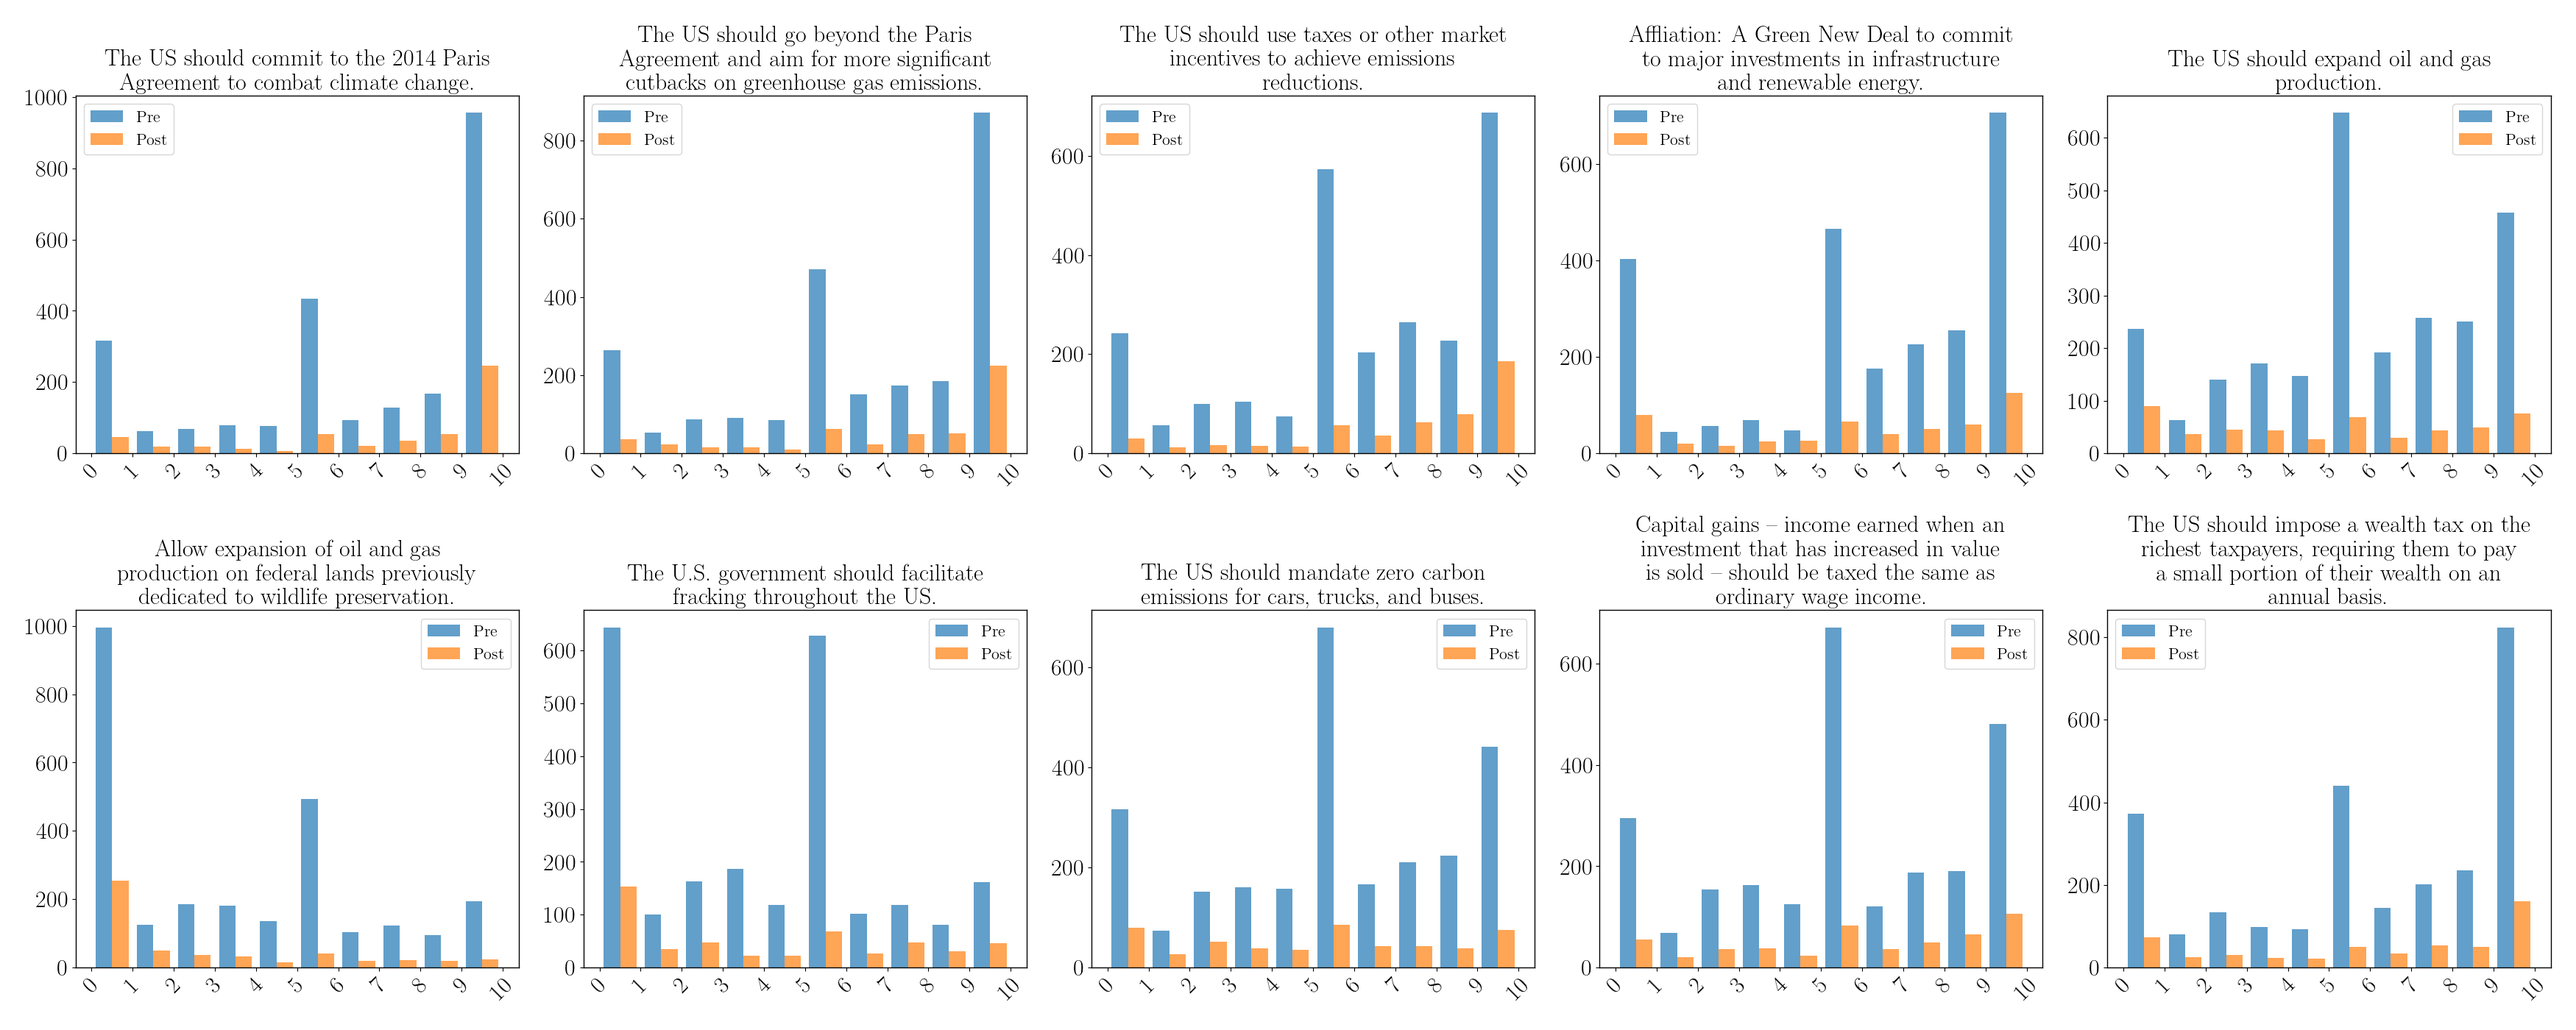
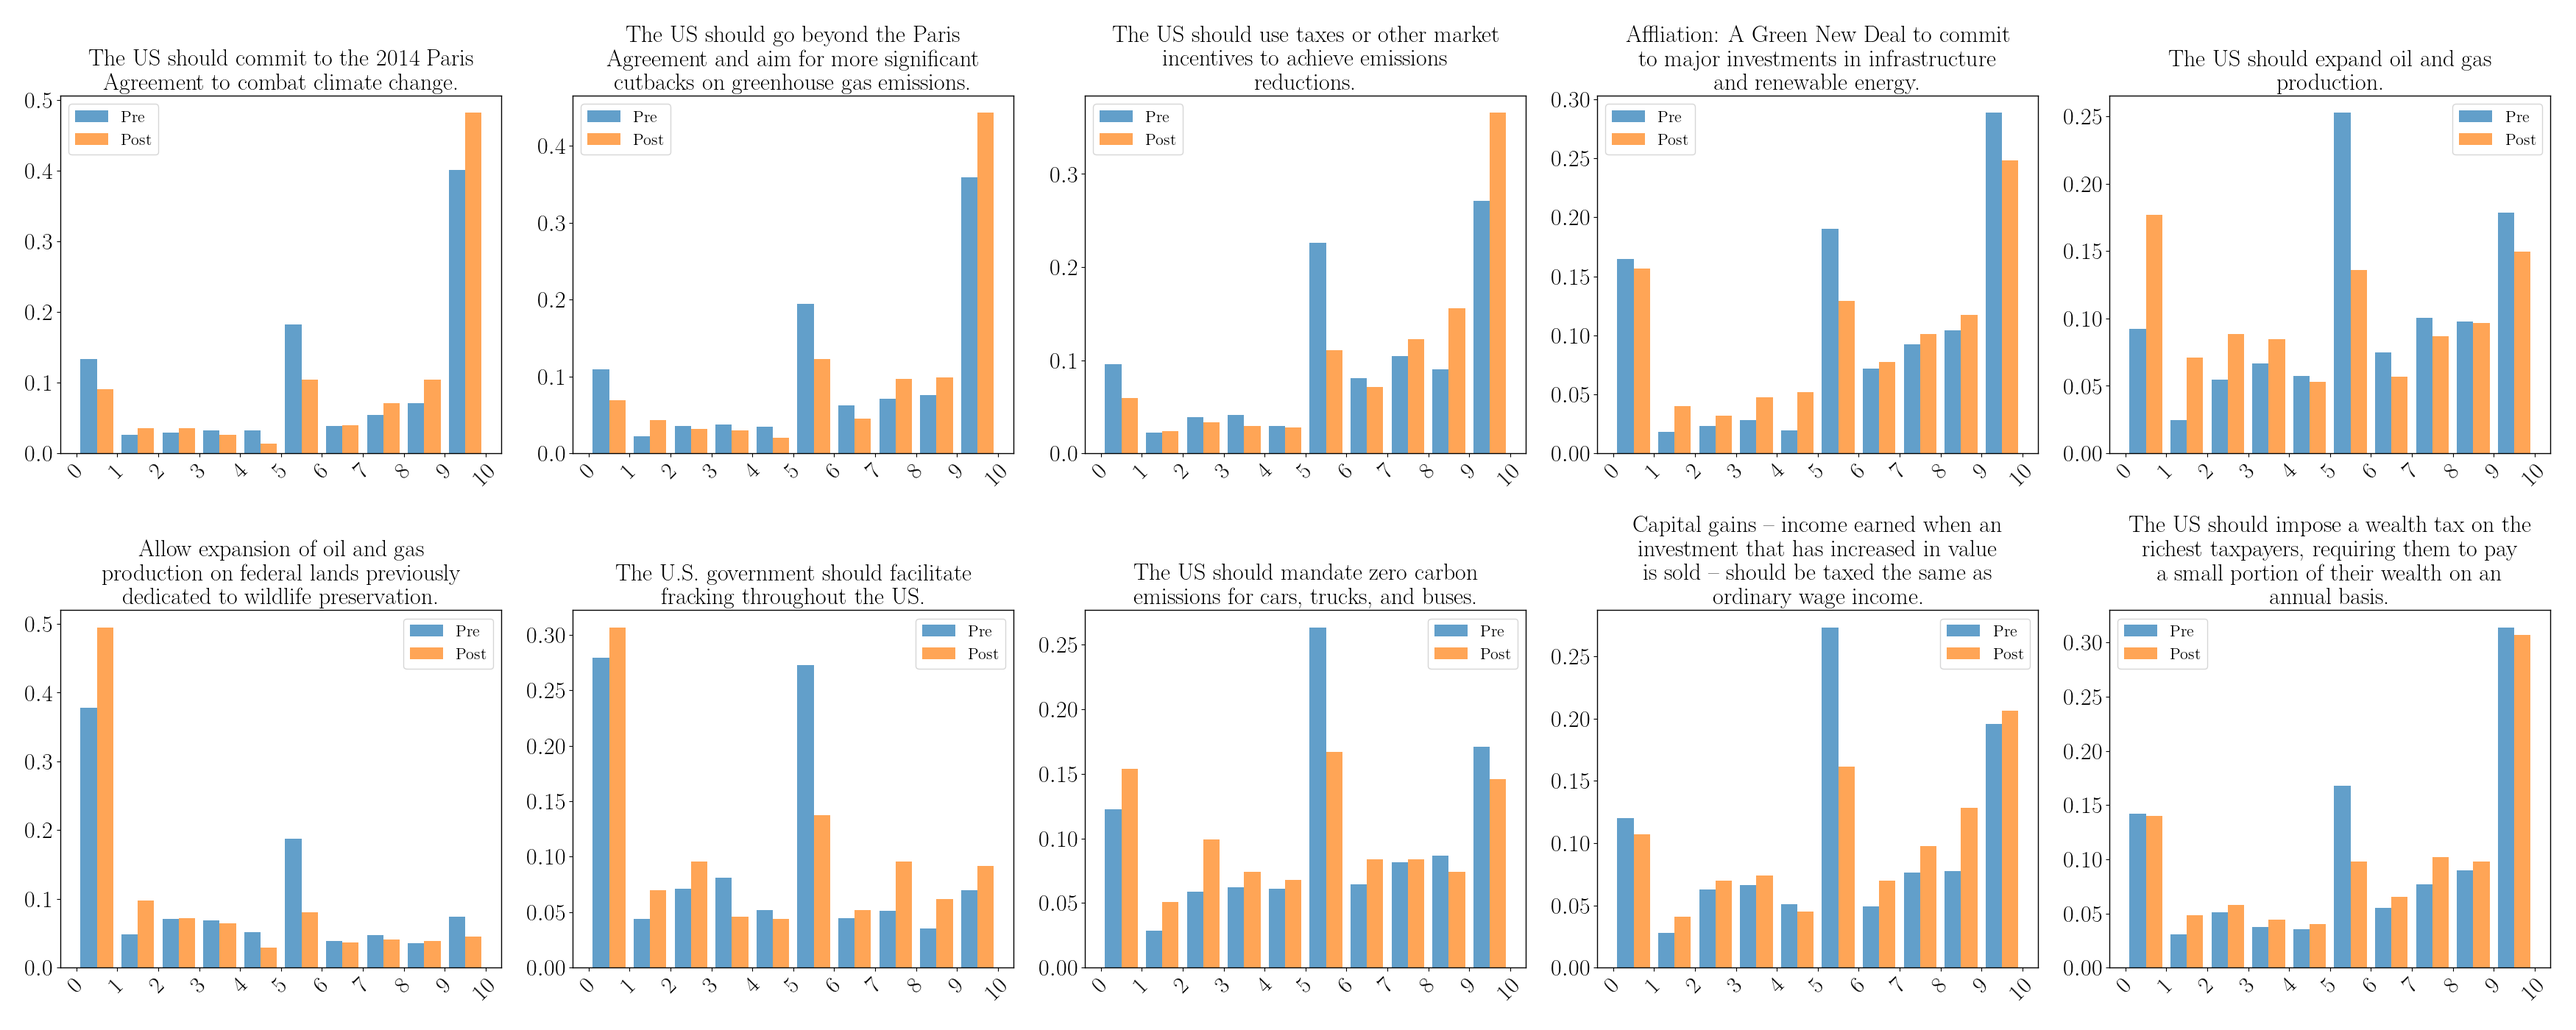
eda sklearn

diff --git a/src/python/eda.py b/src/python/eda.py
@@ -8,6 +8,7 @@ app = marimo.App(width="full")
 def _():
     import marimo as mo
     import polars as pl
+    import sklearn as sk
     import numpy as np
     import matplotlib.pyplot as plt
     from enum import Enum
@@ -31,7 +32,7 @@ def _():
             "font.family": "Computer Modern",
         }
     )
-    return Enum, mo, np, pl, plt, textwrap
+    return Enum, mo, np, pl, plt, sk, textwrap
 
 
 @app.cell
@@ -42,7 +43,6 @@ def _(Enum):
         REFUSED = "98"
         INVALID = "-1"
         MULTIPLE_REPONSE = "-8"
-
 
     def from_value(value: int):
         if value in {"98", "99", "998", "999"}:
@@ -61,7 +61,10 @@ def _(Enum):
 @app.cell
 def _(pl):
     questionnaire_questions = pl.read_csv(
-        "data/questionnaire.csv", separator=";", has_header=False, new_columns=["code", "question"]
+        "data/questionnaire.csv",
+        separator=";",
+        has_header=False,
+        new_columns=["code", "question"],
     )
 
     question_dict = {}
@@ -123,9 +126,13 @@ def _(data, from_value, pl, sql_context):
         .alias("Timepoint")
     )
 
-    df_long = df_long.with_columns(df_long["Question"].str.replace("^T2", "").alias("Question"))
     df_long = df_long.with_columns(
-        df_long["Response"].map_elements(from_value, return_dtype=int).alias("ResponseType")
+        df_long["Question"].str.replace("^T2", "").alias("Question")
+    )
+    df_long = df_long.with_columns(
+        df_long["Response"]
+        .map_elements(from_value, return_dtype=int)
+        .alias("ResponseType")
     )
 
     sql_context.register("data_long", df_long)
@@ -150,10 +157,9 @@ def _(np, pl, plt, question_dict, sql_context, textwrap):
     def gen_response_query(cols, q, response_type, time):
         return f"""
             SELECT {" ".join(cols)}
-            FROM data_long 
+            FROM data_long
             WHERE Question = '{q}' AND ResponseType = {response_type} AND Timepoint = '{time}' AND CONDITION = 1
         """
-
 
     questions_query = """
         SELECT DISTINCT Question from data_long
@@ -162,7 +168,8 @@ def _(np, pl, plt, question_dict, sql_context, textwrap):
     questions = sql_context.execute(questions_query).collect()
 
     num_questions = len(questions)
-    num_figures = (num_questions + 9) // 10  # Ceiling division to get number of figures
+    # Ceiling division to get number of figures
+    num_figures = (num_questions + 9) // 10
 
     for fig_num in range(num_figures):
         # Create a new figure with increased size for better readability
@@ -173,7 +180,9 @@ def _(np, pl, plt, question_dict, sql_context, textwrap):
         end_idx = min((fig_num + 1) * 10, num_questions)
 
         # Create 2x5 subplot grid
-        for subplot_idx, question in enumerate(questions["Question"][start_idx:end_idx], 1):
+        for subplot_idx, question in enumerate(
+            questions["Question"][start_idx:end_idx], 1
+        ):
             plt.subplot(2, 5, subplot_idx)
 
             q = gen_response_query(["Response"], question, 0, "Pre")
@@ -194,17 +203,19 @@ def _(np, pl, plt, question_dict, sql_context, textwrap):
 
             # Create histogram
             # Create histogram
-            counts, bin_edges = np.histogram(
-                np.concatenate([q_data, q2_data]), bins=10
-            )
+            counts, bin_edges = np.histogram(np.concatenate([q_data, q2_data]), bins=10)
 
             # Plot histogram
-            plt.hist([q_data, q2_data], bins=bin_edges, label=["Pre", "Post"], alpha=0.7)
+            plt.hist(
+                [q_data, q2_data],
+                bins=bin_edges,
+                label=["Pre", "Post"],
+                alpha=0.7,
+                density=True,
+            )
 
             # Set x-ticks to the bin edges
-            plt.xticks(
-                bin_edges.astype(int), rotation=45
-            ) 
+            plt.xticks(bin_edges.astype(int), rotation=45)
             wrapped_title = textwrap.fill(full_title, width=40)
             plt.legend()
 
@@ -212,7 +223,6 @@ def _(np, pl, plt, question_dict, sql_context, textwrap):
             plt.title(wrapped_title, ha="center")
             plt.tight_layout()
         plt.savefig(f"figures/{question}.png")
-
 
     # Show all figures
     plt.show()
@@ -267,31 +277,31 @@ def _(sql_context):
         if cond != "":
             return f"""
                 SELECT *
-                FROM data_long 
+                FROM data_long
                 WHERE ID in ({", ".join([str(id) for id in ids])}) AND {cond}
             """
         else:
             return f"""
                 SELECT *
-                FROM data_long 
+                FROM data_long
                 WHERE ID in ({", ".join([str(id) for id in ids])})
             """
-    
+
     def gen_group_voter_query(group, cond):
         if cond != "":
             return f"""
                 SELECT *
-                FROM data_long 
+                FROM data_long
                 WHERE GROUP = '{group}' AND {cond}
             """
         else:
             return f"""
                 SELECT *
-                FROM data_long 
+                FROM data_long
                 WHERE GROUP = '{group}'
             """
 
-    def get_voters(ids=None, group=None, cond = ""):
+    def get_voters(ids=None, group=None, cond=""):
         assert ids is not None or group is not None
         if ids is not None:
             q = gen_voter_query(ids, cond)
@@ -299,7 +309,7 @@ def _(sql_context):
         else:
             q = gen_group_voter_query(group, cond)
             return sql_context.execute(q).collect()
-        
+
     def get_voter_preferences(ids=None, group=None, cond=""):
         """
         Retrieves voter data in a wide format.
@@ -327,12 +337,7 @@ def _(sql_context):
 
         return df_wide
 
-
-    print(get_voter_preferences(group=6, cond="Timepoint = 'Pre'"))
-
-
-    
-
+    print(get_voter_preferences(group=6, cond="Timepoint = 'Pre'").columns)
     return (
         gen_group_voter_query,
         gen_voter_query,
@@ -359,15 +364,18 @@ def _(from_value, get_voter_preferences, np, pl, questions):
     def voter_preference_over(states, voter):
         assert states[0].shape == voter.shape
         opinion_weights = [1 if from_value(op) == 0 else 1 for op in voter]
-        return sorted(states.keys(), key=lambda k: sum(opinion_weights* abs(voter - states[k])**2))
-    
+        return sorted(
+            states.keys(),
+            key=lambda k: sum(opinion_weights * abs(voter - states[k]) ** 2),
+        )
 
     poll_questions = [q for q in questions["Question"] if "Q" in q]
     world_states = generate_states(10, poll_questions)
     voters = get_voter_preferences(group=6, cond="Timepoint = 'Pre'")[poll_questions]
     voters = voters.cast(pl.Int64)
-    voter_preferences = np.apply_along_axis(lambda v: voter_preference_over(world_states, v), 1, voters.to_numpy())
-    print(voter_preferences)
+    voter_preferences = np.apply_along_axis(
+        lambda v: voter_preference_over(world_states, v), 1, voters.to_numpy()
+    )
     return (
         generate_states,
         poll_questions,
@@ -379,9 +387,20 @@ def _(from_value, get_voter_preferences, np, pl, questions):
 
 
 @app.cell
-def _(world_states):
-    print(world_states[8])
-    return
+def _(get_voters):
+    first_thousand = get_voters(ids=[*range(1000)])
+    print([x  for x in first_thousand["Question"].unique()if "PK" in x])
+    PK_correct_answers = {
+        "PK1": 1,
+        "PK2": 1,
+        "PK3": 1,
+        "PK4": 1,
+        "PK6": 1,
+        "PK7": 1,
+        "PK8": 1,
+        "PK9": 1,
+    }
+    return PK_correct_answers, first_thousand
 
 
 if __name__ == "__main__":
